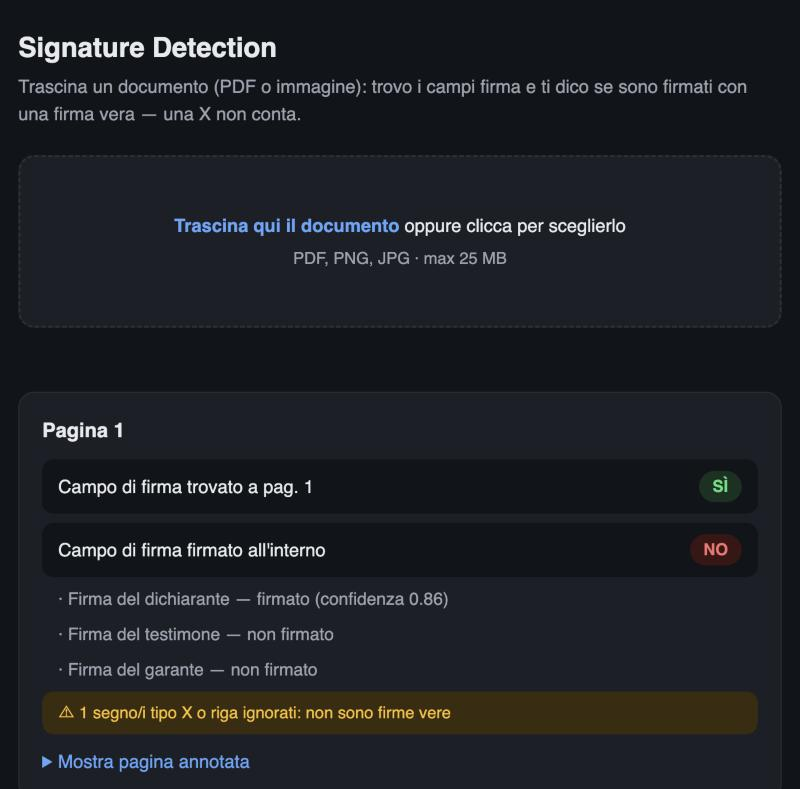
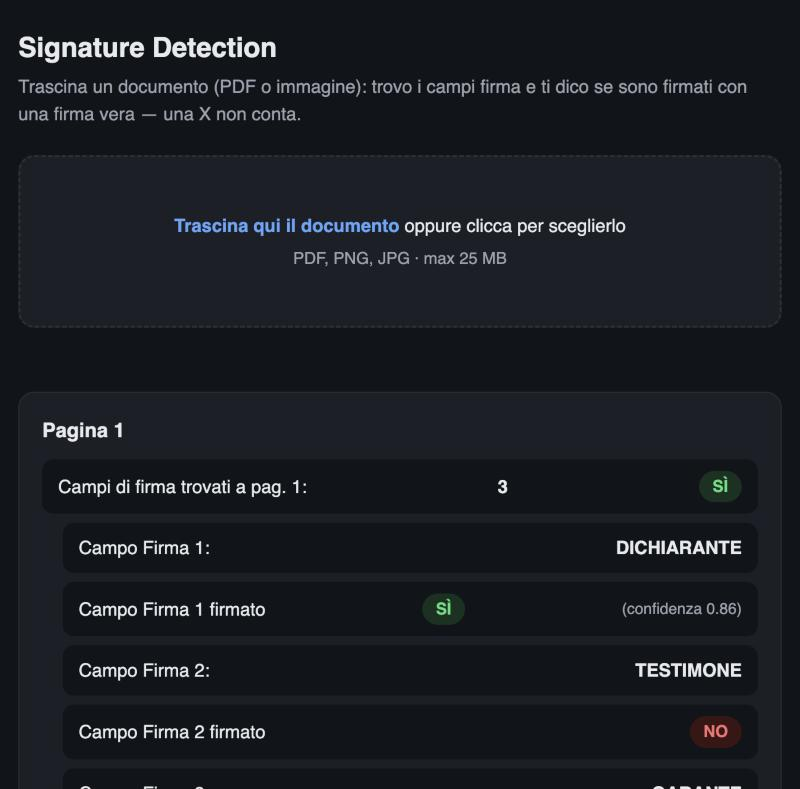
Output per campo: nome del campo e stato firmato per ciascun campo firma
- SignatureField.name estratto dall'etichetta (es. "Firma del Cliente" -> CLIENTE)
- Frontend: elenco numerato "Campo Firma N: NOME / firmato SI'/NO" per pagina

diff --git a/static/index.html b/static/index.html
@@ -52,7 +52,8 @@
   .badge { font-weight: 700; padding: 3px 12px; border-radius: 999px; font-size: .9rem; }
   .badge.si { color: var(--ok); background: var(--ok-bg); }
   .badge.no { color: var(--no); background: var(--no-bg); }
-  .field-row { font-size: .95rem; color: var(--muted); padding-left: 14px; }
+  .answer.field { margin-left: 18px; }
+  .conf { color: var(--muted); font-size: .85rem; font-weight: 400; }
   .warn-row { color: var(--warn); background: var(--warn-bg); padding: 8px 14px;
     border-radius: 10px; font-size: .9rem; }
   details { margin-top: 12px; }
@@ -126,14 +127,13 @@ function render(data) {
   const out = [];
   for (const p of data.pages) {
     const rows = [];
-    rows.push(`<div class="answer">Campo di firma trovato a pag. ${p.page} ${badge(p.field_found)}</div>`);
-    if (p.field_found) {
-      rows.push(`<div class="answer">Campo di firma firmato all'interno ${badge(p.all_fields_signed)}</div>`);
-      for (const f of p.fields) {
-        const conf = f.signature_confidence != null ? ` (confidenza ${f.signature_confidence.toFixed(2)})` : '';
-        rows.push(`<div class="field-row">· ${esc(f.label)} — ${f.signed ? 'firmato' + conf : 'non firmato'}</div>`);
-      }
-    }
+    rows.push(`<div class="answer">Campi di firma trovati a pag. ${p.page}: <b>${p.fields.length}</b> ${badge(p.field_found)}</div>`);
+    p.fields.forEach((f, i) => {
+      const n = i + 1;
+      const conf = f.signature_confidence != null ? ` <span class="conf">(confidenza ${f.signature_confidence.toFixed(2)})</span>` : '';
+      rows.push(`<div class="answer field">Campo Firma ${n}: <b>${esc(f.name)}</b></div>`);
+      rows.push(`<div class="answer field">Campo Firma ${n} firmato ${badge(f.signed)}${conf}</div>`);
+    });
     if (p.rejected_marks.length)
       rows.push(`<div class="warn-row">⚠ ${p.rejected_marks.length} segno/i tipo X o riga ignorati: non sono firme vere</div>`);
     if (p.orphan_signatures.length)

diff --git a/detect_signatures.py b/detect_signatures.py
@@ -67,6 +67,7 @@ class Detection:
 class SignatureField:
     """Un campo firma individuato nel documento (coordinate pixel)."""
     label: str
+    name: str  # nome del campo, es. "CLIENTE" da "Firma del Cliente"
     box: tuple[float, float, float, float]
     source: str  # "acroform" | "keyword"
     signed: bool = False
@@ -204,6 +205,19 @@ def simple_mark_score(image: Image.Image, box: tuple[float, float, float, float]
 
 # ---------------------------------------------------------------- campi firma
 
+_NAME_STOPWORDS = {"del", "dello", "della", "dei", "delle", "degli", "di", "da",
+                   "il", "lo", "la", "the", "of", "by", "e", "and"}
+
+
+def field_name_from_label(label: str) -> str:
+    """"Firma del Cliente" -> "CLIENTE"; se non resta nulla, l'etichetta intera."""
+    words = [w.strip(":.,;()[]_") for w in label.split()]
+    kept = [w for w in words
+            if w and not any(w.lower().startswith(k) for k in FIELD_KEYWORDS)
+            and w.lower() not in _NAME_STOPWORDS]
+    return " ".join(kept).upper() or label.strip(":.,;()[]_ ").upper()
+
+
 def find_fields_pdf_page(page: "fitz.Page", scale: float) -> list[SignatureField]:
     """Campi firma da widget AcroForm + parole chiave nel text layer (coordinate pixel)."""
     fields: list[SignatureField] = []
@@ -214,6 +228,7 @@ def find_fields_pdf_page(page: "fitz.Page", scale: float) -> list[SignatureField
             r = w.rect * scale
             fields.append(SignatureField(
                 label=w.field_name or "signature_widget",
+                name=(w.field_name or "CAMPO FIRMA").upper(),
                 box=(r.x0, r.y0, r.x1, r.y1), source="acroform"))
 
     # 2) parole chiave nel testo
@@ -239,8 +254,9 @@ def find_fields_pdf_page(page: "fitz.Page", scale: float) -> list[SignatureField
             min(page_rect.x1, x1 + ZONE_RIGHT_PAD),
             min(page_rect.y1, y1 + ZONE_BOTTOM_PAD),
         ) * scale
+        label = " ".join(label_words)[:60]
         fields.append(SignatureField(
-            label=" ".join(label_words)[:60],
+            label=label, name=field_name_from_label(label),
             box=(zone.x0, zone.y0, zone.x1, zone.y1), source="keyword"))
 
     # dedup: zone keyword quasi sovrapposte
